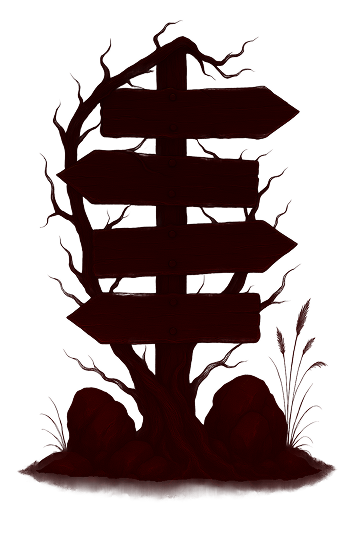
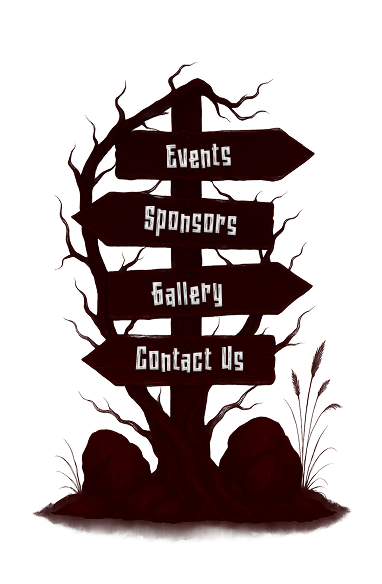
Added sign board nav

Changed region(s): [[0.0608, 0.0295, 0.942, 0.9446], [0.6685, 0.059, 0.6989, 0.0886]]

diff --git a/src/Components/Home/Hero/Hero.tsx b/src/Components/Home/Hero/Hero.tsx
@@ -1,9 +1,79 @@
+import SvgImageMap from "./SvgImageMap";
+
+const areas: {
+  name: string;
+  href: string;
+  coords: [number, number][];
+  style: { transition: string };
+}[] = [
+  {
+    name: "Area 1",
+    href: "/events",
+    coords: [
+      [117, 176],
+      [277, 178],
+      [315, 153],
+      [279, 127],
+      [120, 132],
+    ],
+    style: {
+      transition: "fill 0.2s, stroke 0.2s",
+    },
+  },
+  {
+    name: "Area 2",
+    href: "/sponsors",
+    coords: [
+      [71, 217],
+      [109, 190],
+      [268, 204],
+      [272, 249],
+      [110, 245],
+    ],
+    style: {
+      transition: "fill 0.2s, stroke 0.2s",
+    },
+  },
+  {
+    name: "Area 3",
+    href: "/gallery",
+    coords: [
+      [276, 263],
+      [311, 285],
+      [278, 313],
+      [103, 318],
+      [100, 270],
+    ],
+    style: {
+      transition: "fill 0.2s, stroke 0.2s",
+    },
+  },
+  {
+    name: "Area 4",
+    href: "/contact",
+    coords: [
+      [84, 358],
+      [114, 333],
+      [272, 334],
+      [272, 378],
+      [112, 383],
+    ],
+    style: {
+      transition: "fill 0.2s, stroke 0.2s",
+    },
+  },
+];
+
 const Hero = () => {
   return (
     <div className="w-full h-dvh max-h-[800px] relative bg-stone-950 overflow-hidden flex items-center justify-center">
       {/* <div className="w-[1266px] h-[1266px] mx-auto top-[300px] absolute bg-gradient-to-b from-red-600/50 to-red-800/50 rounded-full blur-[250px]" /> */}
       <div className="w-[822px] h-[822px] mx-auto top-[350px] absolute bg-gradient-to-b from-red-600 to-red-800 rounded-full blur-[200px]" />
-      <img src="/assets/Images/hero-blur1.png" alt="" className="absolute w-full h-full object-cover" />
+      <img
+        src="/assets/Images/hero-blur1.png"
+        alt=""
+        className="absolute w-full h-full object-cover"
+      />
       {/* <img src="/assets/Images/hero-blur2.png" alt="" className="absolute w-full h-full object-cover" /> */}
       <div className="w-[550px] h-[550px] flex justify-center items-center absolute -bottom-25 z-10">
         <div className="w-full h-full absolute bg-red-600/30 rounded-full" />
@@ -13,13 +83,39 @@ const Hero = () => {
           alt="moon"
         />
       </div>
-      <img className="absolute z-20 w-full h-full object-cover" src={"/assets/Images/trees-bg.png"} />
+      <img
+        className="absolute z-20 w-full h-full object-cover"
+        src={"/assets/Images/trees-bg.png"}
+      />
       <div className="top-0 absolute w-52">
-        <img src="/assets/Images/hanging-board.png" className="z-20" alt="ground" />
-        <p className="text-white text-center top-[65px] left-[82px] text-xl absolute font-naluka opacity-80">Home</p>
+        <img
+          src="/assets/Images/hanging-board.png"
+          className="z-20"
+          alt="ground"
+        />
+        <p className="text-white text-center top-[65px] left-[82px] text-xl absolute font-naluka opacity-80">
+          Home
+        </p>
       </div>
-      <img src="/assets/Images/mind-flayer1.png" className="opacity-5 z-0 w-full top-5 h-full absolute object-cover" alt="" />
-      <img src="/assets/Images/Infotsav25.png" className="z-20 bottom-30 scale-85 max-sm:bottom-50 absolute object-cover" alt="" />
+      <img
+        src="/assets/Images/mind-flayer1.png"
+        className="opacity-5 z-0 w-full top-5 h-full absolute object-cover"
+        alt=""
+      />
+      <img
+        src="/assets/Images/Infotsav25.png"
+        className="z-20 bottom-30 scale-85 max-sm:bottom-50 absolute object-cover"
+        alt=""
+      />
+      <img src="/assets/Images/sign-board.png" className="block w-48 bottom-10 scale-150 right-[15%] h-auto absolute z-10" alt="Sign Board" />
+      <div className="absolute bottom-10 scale-150 right-[15%] z-30 w-48">
+        <SvgImageMap
+          src="/assets/Images/sign-board.png"
+          alt="Interactive Map"
+          className="w-full h-auto"
+          areas={areas}
+        />
+      </div>
     </div>
   );
 };

diff --git a/src/Components/Home/Hero/SvgImageMap.tsx b/src/Components/Home/Hero/SvgImageMap.tsx
@@ -1,0 +1,82 @@
+import React, { useRef, useState, useEffect, type CSSProperties } from 'react';
+import { useNavigate } from 'react-router-dom';
+
+interface Area {
+  name: string;
+  href: string;
+  target?: '_blank' | '_self' | '_parent' | '_top';
+  coords: [number, number][];    // array of [x,y] points
+  style?: CSSProperties;         // optional base styling
+}
+
+interface Props {
+  src: string;
+  alt: string;
+  areas: Area[];
+  className?: string;            // e.g. "w-full h-auto"
+}
+
+const SvgImageMap: React.FC<Props> = ({ src, alt, areas, className = '' }) => {
+  const imgRef = useRef<HTMLImageElement>(null);
+  const [viewBox, setViewBox] = useState<string>('0 0 1 1');
+  const navigate = useNavigate(); // 🧭 React Router DOM hook
+
+  useEffect(() => {
+    const img = imgRef.current;
+    if (!img) return;
+    const onLoad = () => {
+      if (img.naturalWidth && img.naturalHeight) {
+        setViewBox(`0 0 ${img.naturalWidth} ${img.naturalHeight}`);
+      }
+    };
+    img.addEventListener('load', onLoad);
+    if (img.complete) onLoad();
+    return () => {
+      img.removeEventListener('load', onLoad);
+    };
+  }, []);
+
+  return (
+    <div className={`relative ${className}`}>
+      <img
+        ref={imgRef}
+        src={src}
+        alt={alt}
+        className="block w-full h-auto opacity-0"
+      />
+      <svg
+        className="absolute top-0 left-0 w-full h-full"
+        viewBox={viewBox}
+        preserveAspectRatio="xMidYMid meet"
+      >
+        {areas.map(area => (
+          <polygon
+            key={area.name}
+            points={area.coords.map(([x, y]) => `${x},${y}`).join(' ')}
+            className="transition-all duration-200 ease-in-out pointer-events-auto cursor-pointer"
+            style={{
+              fill: 'transparent',
+              stroke: 'transparent',
+              pointerEvents: 'all',
+              transition: 'fill 0.2s ease, stroke 0.2s ease',
+              ...area.style,
+            }}
+            onMouseEnter={e => {
+              e.currentTarget.style.fill = 'rgba(255, 255, 255, 0.05)';
+              e.currentTarget.style.stroke = 'white';
+              e.currentTarget.style.strokeWidth = '0';
+            }}
+            onMouseLeave={e => {
+              e.currentTarget.style.fill = 'transparent';
+              e.currentTarget.style.stroke = 'transparent';
+              e.currentTarget.style.strokeWidth = '0';
+            }}
+            onClick={() => navigate(area.href)} // 👈 Navigates using React Router
+          />
+        ))}
+      </svg>
+    </div>
+  );
+};
+
+export default SvgImageMap;

diff --git a/src/App.tsx b/src/App.tsx
@@ -10,6 +10,10 @@ function App() {
       <MainLayout>
         <Routes>
           <Route path='/' element={<Home />} />
+          <Route path='/events' element={<Home />} />
+          <Route path='/sponsors' element={<Home />} />
+          <Route path='/gallery' element={<Home />} />
+          <Route path='/contact' element={<Home />} />
         </Routes>
       </MainLayout>
     </>
